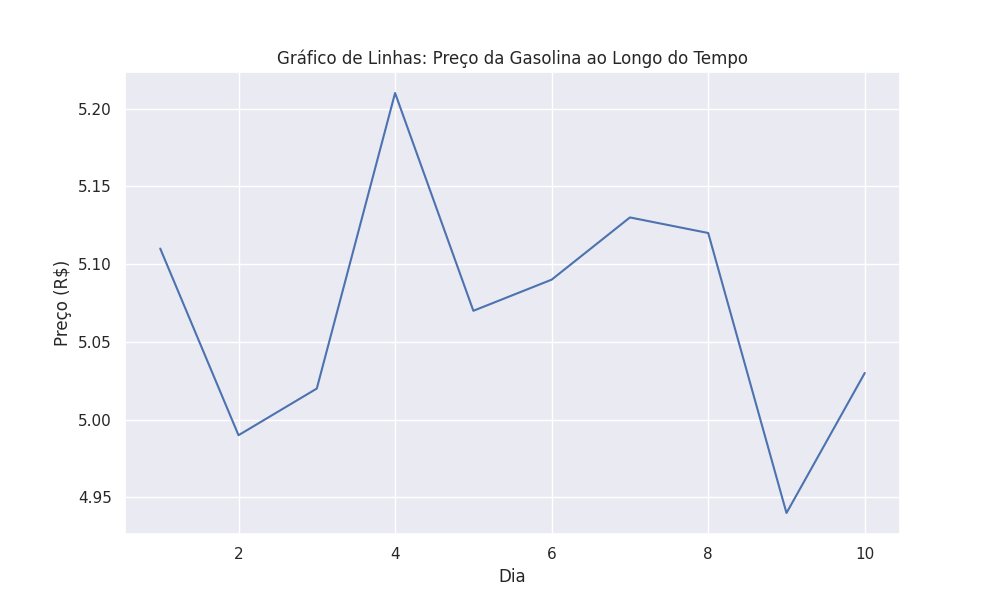
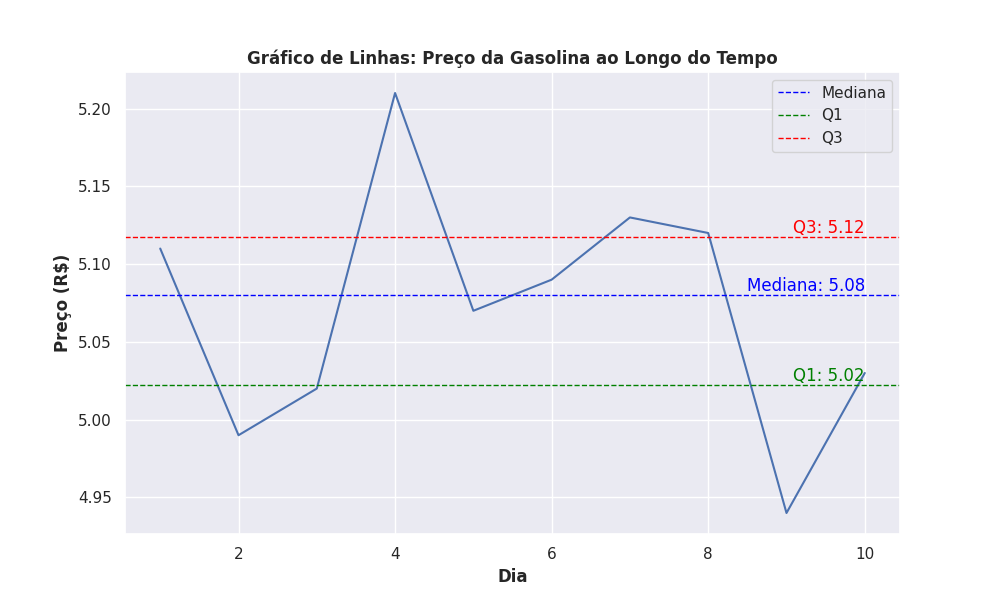
atualização de código e imagem nos arquivos 'py' e 'png'.

diff --git a/gasolina.py b/gasolina.py
@@ -1,4 +1,4 @@
-# código de geração do gráfico 
+# código de geração do gráfico
 
 import pandas as pd
 import seaborn as sns
@@ -16,10 +16,28 @@ plt.figure(figsize=(10, 6))  # Ajustando o tamanho
 # Cria o gráfico de linhas usando Seaborn
 sns.lineplot(data=df, x='dia', y='venda')
 
-# Adicionando título e rótulos nos eixos
-plt.title('Gráfico de Linhas: Preço da Gasolina ao Longo do Tempo')
-plt.xlabel('Dia')
-plt.ylabel('Preço (R$)')
+# Adicionando título e rótulos nos eixos em negrito
+plt.title('Gráfico de Linhas: Preço da Gasolina ao Longo do Tempo', fontweight='bold')
+plt.xlabel('Dia', fontweight='bold')
+plt.ylabel('Preço (R$)', fontweight='bold')
+
+# Calculando mediana, Q1 e Q3 dos preços
+mediana = df['venda'].median()
+q1 = df['venda'].quantile(0.25)
+q3 = df['venda'].quantile(0.75)
+
+# Adicionando linhas horizontais pontilhadas para mediana, Q1 e Q3
+plt.axhline(y=mediana, color='blue', linestyle='--', linewidth=1, label='Mediana')
+plt.axhline(y=q1, color='green', linestyle='--', linewidth=1, label='Q1')
+plt.axhline(y=q3, color='red', linestyle='--', linewidth=1, label='Q3')
+
+# Colocando os textos das linhas no gráfico
+plt.text(df['dia'].max(), mediana, f'Mediana: {mediana:.2f}', color='blue', ha='right', va='bottom')
+plt.text(df['dia'].max(), q1, f'Q1: {q1:.2f}', color='green', ha='right', va='bottom')
+plt.text(df['dia'].max(), q3, f'Q3: {q3:.2f}', color='red', ha='right', va='bottom')
+
+# Adicionando a legenda ao gráfico
+plt.legend()
 
 # Salvando o gráfico
 plt.savefig('gasolina.png')
